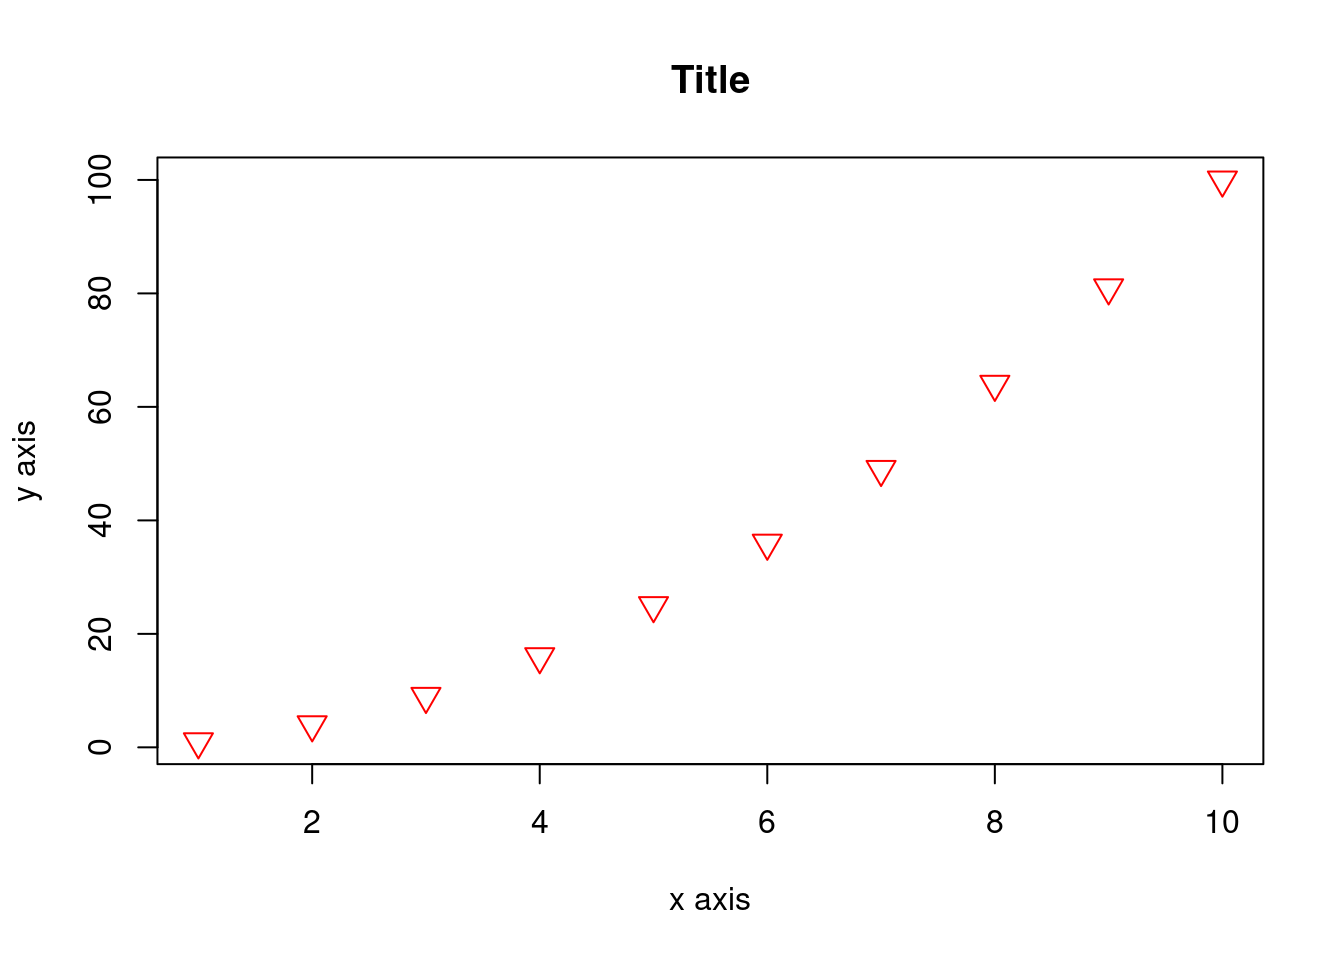
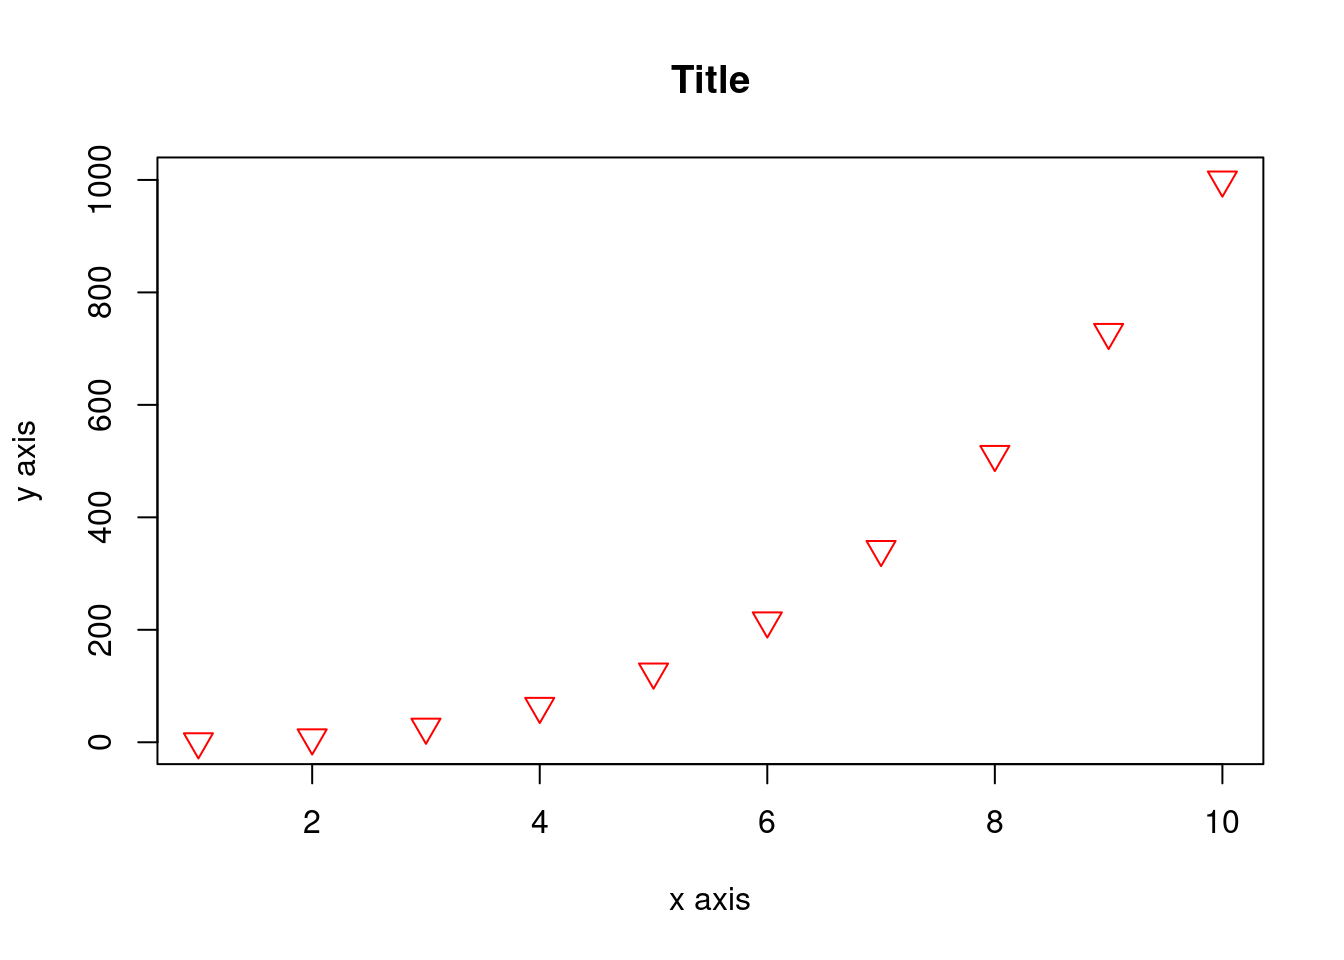
End of document Whitespace removed, spacing, grammar

diff --git a/docs/Graphing-In-R.html b/docs/Graphing-In-R.html
@@ -342,7 +342,7 @@ div.tocify {
 <h2>Plot</h2>
 <p>The plot() function is used to draw points.</p>
 <pre class="r"><code>x = 1:10
-y = x^2
+y = x^3
 plot(x,y)</code></pre>
 <p><img src="Graphing-In-R_files/figure-html/unnamed-chunk-2-1.png" width="672" /></p>
 </div>
@@ -350,7 +350,7 @@ plot(x,y)</code></pre>
 <h2>Appearance</h2>
 <p>There are many parameters to change the appearance of our graph.</p>
 <pre class="r"><code>x = 1:10
-y = x^2
+y = x^3
 plot(x,y,
      main = &quot;Title&quot;,
      xlab = &quot;x axis&quot;,
@@ -360,14 +360,14 @@ plot(x,y,
      pch = 25 #Adjusts shape of point, valid 1-25
      )</code></pre>
 <p><img src="Graphing-In-R_files/figure-html/unnamed-chunk-3-1.png" width="672" /></p>
-<p>Point types below:<br />
+<p>Point types below (pch values):<br />
 <img src="images/r_plot_pch2.png" /></p>
 </div>
 <div id="line-graphs" class="section level2">
 <h2>Line Graphs</h2>
 <p>To make a line graph, add the type parameter.</p>
 <pre class="r"><code>x = 1:10
-y = x^2
+y = x^3
 plot(x,y, type = &quot;l&quot;, # This makes it a line graph
      lwd = 1.5, #Adjusts size, 1 = default, 0.5 = 50% smaller, 2 = 100% larger
      lty = 6 #Adjusts line type, valid 0-6
@@ -379,16 +379,16 @@ plot(x,y, type = &quot;l&quot;, # This makes it a line graph
 <p>The barplot() function will display a vertical bar chart. Use
 names.arg to label the x axis.</p>
 <pre class="r"><code>x = 1:10
-y = x^2
+y = x^3
 barplot(y, names.arg = x)</code></pre>
 <p><img src="Graphing-In-R_files/figure-html/unnamed-chunk-5-1.png" width="672" /></p>
 </div>
 <div id="layers" class="section level2">
 <h2>Layers</h2>
-<p>We can add to existing plots using the points() or lines()
-functions.</p>
+<p>We can add to existing plots using the points() or lines() functions.
+Note: a plot (or barplot) must exist to add points or lines.</p>
 <pre class="r"><code>x = 1:10
-y = x^2
+y = x^3
 plot(x,y,
      main = &quot;Title&quot;,
      xlab = &quot;x axis&quot;,
@@ -402,13 +402,14 @@ z = y[10:1]
 points(x, z, col = &quot;blue&quot;)
 
 # Create horizontal line
-z = rep(30, 10) #Repeats the integer &#39;30&#39; ten times
+z = rep(200, 10) #&#39;Rep&#39; repeats the integer &#39;200&#39;, ten times
 
 lines(x, z, col = &quot;black&quot;)</code></pre>
 <p><img src="Graphing-In-R_files/figure-html/unnamed-chunk-6-1.png" width="672" /></p>
 </div>
 
 <!-- <p id="copyright">Copyright &copy; 2024 Lauren Cipriano <p> -->
+<div class="tocify-extend-page" data-unique="tocify-extend-page" style="height: 0;"></div>
 
 
 </div>

diff --git a/docs/04a-Binomial-Test.html b/docs/04a-Binomial-Test.html
@@ -357,7 +357,7 @@ p of “success” is called a Bernoulli trial.</p>
 <pre class="r"><code># Simulate a single Bernoulli trial with p = 1/6
 p = 1/6
 if(runif(1) &lt;= p){1}else{0}</code></pre>
-<pre><code>&gt; [1] 0</code></pre>
+<pre><code>&gt; [1] 1</code></pre>
 </div>
 <div id="recall-the-binomial-process" class="section level3">
 <h3>Recall the Binomial Process</h3>
@@ -366,7 +366,7 @@ if(runif(1) &lt;= p){1}else{0}</code></pre>
 p = 1/6
 n = 20
 as.integer(runif(n) &lt;= p)</code></pre>
-<pre><code>&gt;  [1] 0 0 0 1 0 1 1 0 0 0 0 0 0 0 0 1 1 0 0 0</code></pre>
+<pre><code>&gt;  [1] 1 0 1 0 0 0 0 0 0 0 0 0 0 0 0 0 0 0 0 0</code></pre>
 </div>
 </div>
 <div id="binomial-distribution-functions" class="section level2">
@@ -424,9 +424,9 @@ trials when the probability of success is “prob”</p>
 n = 20
 p = 1/6
 rbinom(n = trials, size = n, prob = p)</code></pre>
-<pre><code>&gt;   [1] 1 4 1 1 4 2 2 4 6 3 4 3 1 2 1 1 1 2 6 4 3 3 5 1 2 2 4 5 1 7 4 2 1 3 3 5 5
-&gt;  [38] 3 3 4 3 5 4 4 3 4 2 4 4 5 1 4 2 2 2 1 6 3 4 6 3 2 4 4 3 4 1 4 2 3 3 2 4 0
-&gt;  [75] 3 3 2 2 2 5 0 4 5 5 2 3 2 2 1 3 4 3 2 4 3 4 0 4 4 2</code></pre>
+<pre><code>&gt;   [1] 3 4 2 4 3 6 4 4 1 6 2 2 4 3 3 3 2 2 3 2 2 1 5 6 1 2 3 2 1 3 3 4 3 2 2 3 2
+&gt;  [38] 3 4 1 2 5 2 7 3 3 6 3 0 2 1 3 1 5 4 2 3 7 3 3 3 2 3 1 7 3 3 6 3 3 2 4 3 3
+&gt;  [75] 3 3 5 3 2 3 2 3 3 4 7 2 1 2 4 3 2 3 2 0 2 4 2 3 1 2</code></pre>
 </div>
 </div>
 <div id="binomial-test-theory" class="section level2">
@@ -611,6 +611,7 @@ we can barely see that they are coloured blue.</p>
 </div>
 
 <!-- <p id="copyright">Copyright &copy; 2024 Lauren Cipriano <p> -->
+<div class="tocify-extend-page" data-unique="tocify-extend-page" style="height: 0;"></div>
 
 
 </div>

diff --git a/docs/03b-CLT.html b/docs/03b-CLT.html
@@ -457,11 +457,11 @@ deviation of the sample.</p>
 <pre class="r"><code># Calculate the sample mean of Income
 sample.avg &lt;- mean(study.data$INCOME)
 sample.avg</code></pre>
-<pre><code>&gt; [1] 39835.91</code></pre>
+<pre><code>&gt; [1] 42660.1</code></pre>
 <pre class="r"><code># Calculate the sample sd of Income
 sample.sd &lt;- sd(study.data$INCOME)
 sample.sd</code></pre>
-<pre><code>&gt; [1] 31726.75</code></pre>
+<pre><code>&gt; [1] 32652.28</code></pre>
 <p>If you run the last two sections of code repeatedly, you will find
 that each time a new sample is selected the sample mean is a different
 number.</p>
@@ -587,7 +587,7 @@ upperCI = sample.avg + qnorm(0.975, mean = 0, sd = 1) * se
 
 print(cbind(sample.avg, lowerCI, upperCI))</code></pre>
 <pre><code>&gt;      sample.avg  lowerCI  upperCI
-&gt; [1,]   39777.76 36705.45 42850.07</code></pre>
+&gt; [1,]   41296.32 37959.74 44632.89</code></pre>
 </div>
 <div id="interpreting-confidence-intervals" class="section level2">
 <h2>Interpreting confidence intervals</h2>
@@ -613,13 +613,14 @@ sample.reps$outBounds[ true.avg &gt; sample.reps$upperCI ] &lt;- 1
 
 # what % of study replications reported 95% CI that did not include the true population average?
 sum(sample.reps$outBounds)/m</code></pre>
-<pre><code>&gt; [1] 0.055</code></pre>
+<pre><code>&gt; [1] 0.0434</code></pre>
 <p>I hope it is not too much of a surprise that this is really close to
 5%!</p>
 <p>Next: Elements of a Statistical Test</p>
 </div>
 
 <!-- <p id="copyright">Copyright &copy; 2024 Lauren Cipriano <p> -->
+<div class="tocify-extend-page" data-unique="tocify-extend-page" style="height: 0;"></div>
 
 
 </div>

diff --git a/docs/index.html b/docs/index.html
@@ -345,37 +345,36 @@ R Learning Support Materials</h1>
 <h2>Datasets</h2>
 <p>All of the datasets used in examples on this site and in Ivey
 Business Statistics are available here:</p>
-<p><a href="01-Datasets.html">Datasets Home Page</a> <br><br />
-<br></p>
+<p><a href="01-Datasets.html">Datasets Home Page</a></p>
+<hr />
 </div>
 <div id="lessons" class="section level2">
 <h2>Lessons</h2>
 <div id="introduction-to-r" class="section level3">
 <h3>Introduction to R</h3>
 <ul>
-<li><a href="Intro-To-R.html">Webpage</a><br />
-<br></li>
+<li><a href="Intro-To-R.html">Webpage</a></li>
 </ul>
+<hr />
 </div>
 <div id="hypothesis-testing" class="section level3">
 <h3>Hypothesis Testing</h3>
 <ul>
-<li><a href="Hypothesis-Testing.html">Webpage</a><br />
-<br></li>
+<li><a href="Hypothesis-Testing.html">Webpage</a></li>
 </ul>
+<hr />
 </div>
 <div id="linear-regression" class="section level3">
 <h3>Linear Regression</h3>
 <ul>
-<li><a href="Linear-Regression.html">Webpage</a><br />
-<br></li>
+<li><a href="Linear-Regression.html">Webpage</a></li>
 </ul>
+<hr />
 </div>
 <div id="logistic-regression" class="section level3">
 <h3>Logistic Regression</h3>
 <ul>
-<li><a href="Logistic-Regression.html">Webpage</a><br />
-<br></li>
+<li><a href="Logistic-Regression.html">Webpage</a></li>
 </ul>
 <hr />
 <hr />
@@ -383,6 +382,7 @@ Business Statistics are available here:</p>
 </div>
 
 <!-- <p id="copyright">Copyright &copy; 2024 Lauren Cipriano <p> -->
+<div class="tocify-extend-page" data-unique="tocify-extend-page" style="height: 0;"></div>
 
 
 </div>

diff --git a/docs/Intro-To-R.html b/docs/Intro-To-R.html
@@ -345,16 +345,18 @@ R</h1>
 <h2>Datasets</h2>
 <p>All of the datasets used in examples on this site and in Ivey
 Business Statistics are available here:</p>
-<p><a href="01-Datasets.html">Datasets Home Page</a> <br> <br></p>
+<p><a href="01-Datasets.html">Datasets Home Page</a></p>
+<hr />
 </div>
 <div id="introduction-to-statistical-coding-in-r"
 class="section level2">
 <h2>Introduction to Statistical Coding in R</h2>
-<div id="introduction-to-coding-in-r" class="section level3">
-<h3>Introduction to Coding in R</h3>
+<div id="fundamentals-of-coding-in-r" class="section level3">
+<h3>Fundamentals of Coding in R</h3>
 <ul>
 <li><a href="Intro-To-Coding-R.html">Webpage</a></li>
 </ul>
+<hr />
 </div>
 <div id="graphing-in-r" class="section level3">
 <h3>Graphing in R</h3>
@@ -362,11 +364,20 @@ class="section level2">
 <li><a href="Graphing-In-R.html">Webpage</a></li>
 </ul>
 <hr />
+</div>
+<div id="more-help" class="section level3">
+<h3>More Help</h3>
+<ul>
+<li>Visit <a
+href="https://www.w3schools.com/r/default.asp">W3Schools</a></li>
+</ul>
+<hr />
 <hr />
 </div>
 </div>
 
 <!-- <p id="copyright">Copyright &copy; 2024 Lauren Cipriano <p> -->
+<div class="tocify-extend-page" data-unique="tocify-extend-page" style="height: 0;"></div>
 
 
 </div>

diff --git a/docs/Intro-To-Coding-R.html b/docs/Intro-To-Coding-R.html
@@ -11,7 +11,7 @@
 
 
 
-<title>Intro to Coding and R</title>
+<title>Fundamentals of Coding in R</title>
 
 <script src="site_libs/header-attrs-2.25/header-attrs.js"></script>
 <script src="site_libs/jquery-3.6.0/jquery-3.6.0.min.js"></script>
@@ -333,7 +333,7 @@ div.tocify {
 
 
 
-<h1 class="title toc-ignore">Intro to Coding and R</h1>
+<h1 class="title toc-ignore">Fundamentals of Coding in R</h1>
 
 </div>
 
@@ -895,6 +895,7 @@ help(mean)
 </div>
 
 <!-- <p id="copyright">Copyright &copy; 2024 Lauren Cipriano <p> -->
+<div class="tocify-extend-page" data-unique="tocify-extend-page" style="height: 0;"></div>
 
 
 </div>

diff --git a/docs/01-Datasets.html b/docs/01-Datasets.html
@@ -562,6 +562,7 @@ href="https://laurencipriano.github.io/IveyBusinessStatistics/Datasets/SC_TestPa
 </div>
 
 <!-- <p id="copyright">Copyright &copy; 2024 Lauren Cipriano <p> -->
+<div class="tocify-extend-page" data-unique="tocify-extend-page" style="height: 0;"></div>
 
 
 </div>

diff --git a/docs/04d-ANOVA.html b/docs/04d-ANOVA.html
@@ -850,6 +850,7 @@ Two-way ANOVA compares the means across groups varying two factors (vs. one fact
 </div>
 
 <!-- <p id="copyright">Copyright &copy; 2024 Lauren Cipriano <p> -->
+<div class="tocify-extend-page" data-unique="tocify-extend-page" style="height: 0;"></div>
 
 
 </div>

diff --git a/docs/04b-T-Test.html b/docs/04b-T-Test.html
@@ -870,6 +870,7 @@ comparing two samples is the Mann-Whitney U test.</p>
 </div>
 
 <!-- <p id="copyright">Copyright &copy; 2024 Lauren Cipriano <p> -->
+<div class="tocify-extend-page" data-unique="tocify-extend-page" style="height: 0;"></div>
 
 
 </div>

diff --git a/docs/Lab1.html b/docs/Lab1.html
@@ -567,6 +567,7 @@ prop_fam_of_interest</code></pre>
 </div>
 
 <!-- <p id="copyright">Copyright &copy; 2024 Lauren Cipriano <p> -->
+<div class="tocify-extend-page" data-unique="tocify-extend-page" style="height: 0;"></div>
 
 
 </div>

diff --git a/docs/04c-WMW-U.html b/docs/04c-WMW-U.html
@@ -684,6 +684,7 @@ very small p-value.</p>
 </div>
 
 <!-- <p id="copyright">Copyright &copy; 2024 Lauren Cipriano <p> -->
+<div class="tocify-extend-page" data-unique="tocify-extend-page" style="height: 0;"></div>
 
 
 </div>

diff --git a/docs/Hypothesis-Testing.html b/docs/Hypothesis-Testing.html
@@ -391,6 +391,7 @@ class="section level3">
 </div>
 
 <!-- <p id="copyright">Copyright &copy; 2024 Lauren Cipriano <p> -->
+<div class="tocify-extend-page" data-unique="tocify-extend-page" style="height: 0;"></div>
 
 
 </div>
